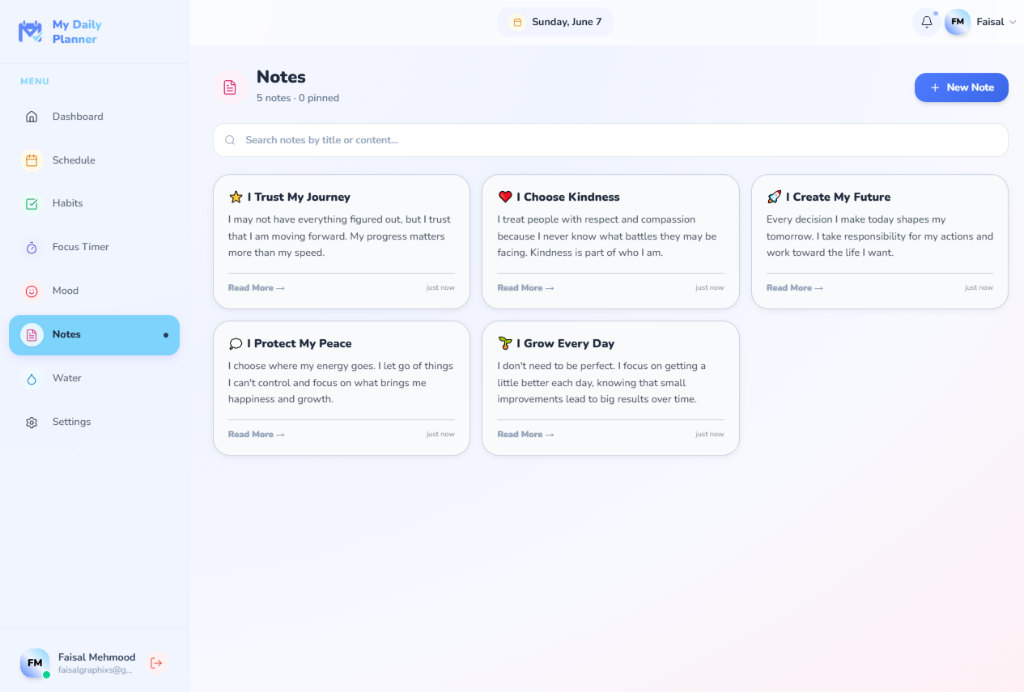
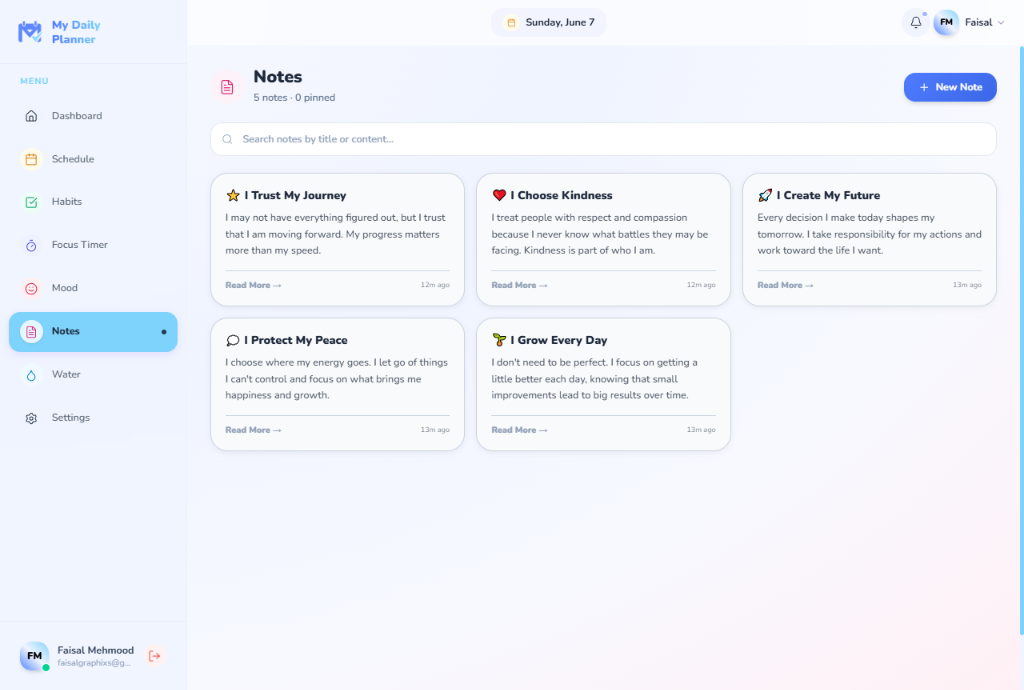
Fix bugs: Focus Timer notifications, Mood recent entries, Dashboard NaNd relative time, and Water page mobile responsiveness

diff --git a/src/pages/WaterPage.jsx b/src/pages/WaterPage.jsx
@@ -730,14 +730,14 @@ export default function WaterPage() {
                 ${darkMode ? 'bg-slate-800/70 border-slate-700/50' : 'bg-white/80 border-sky-100/40'}`}>
 
                 {/* Bar + bottle row */}
-                <div className="flex items-center gap-6 mb-6">
+                <div className="flex flex-col sm:flex-row items-center gap-6 mb-6">
                   {/* Water bottle */}
                   <div className="flex-shrink-0">
                     <WaterBottle pct={pct} darkMode={darkMode} />
                   </div>
 
                   {/* Progress + glasses grid */}
-                  <div className="flex-1 min-w-0 space-y-5">
+                  <div className="flex-1 min-w-0 space-y-5 w-full">
                     {/* Progress bar */}
                     <div>
                       <div className="flex justify-between items-center mb-2">

diff --git a/src/pages/NotificationsPage.jsx b/src/pages/NotificationsPage.jsx
@@ -143,7 +143,12 @@ export default function NotificationsPage() {
       if (rawFocus) {
         const parsed = JSON.parse(rawFocus);
         const today = todayKey();
-        const todayCompletions = parsed.filter(c => c.timestamp && c.timestamp.startsWith(today));
+        const todayCompletions = parsed.filter(c => {
+          if (!c.timestamp) return false;
+          const cDate = new Date(c.timestamp);
+          const cKey = `${cDate.getFullYear()}-${String(cDate.getMonth()+1).padStart(2,'0')}-${String(cDate.getDate()).padStart(2,'0')}`;
+          return cKey === today;
+        });
         todayCompletions.forEach((fc, fidx) => {
           list.push({
             id: `focus-${fc.id || fidx}`,

diff --git a/src/components/Navbar.jsx b/src/components/Navbar.jsx
@@ -158,7 +158,12 @@ export function NotificationBell() {
       if (rawFocus) {
         const parsed = JSON.parse(rawFocus);
         const today = todayKey();
-        const todayCompletions = parsed.filter(c => c.timestamp && c.timestamp.startsWith(today));
+        const todayCompletions = parsed.filter(c => {
+          if (!c.timestamp) return false;
+          const cDate = new Date(c.timestamp);
+          const cKey = `${cDate.getFullYear()}-${String(cDate.getMonth()+1).padStart(2,'0')}-${String(cDate.getDate()).padStart(2,'0')}`;
+          return cKey === today;
+        });
         todayCompletions.forEach((fc, fidx) => {
           list.push({
             id: `focus-${fc.id || fidx}`,

diff --git a/src/pages/Dashboard.jsx b/src/pages/Dashboard.jsx
@@ -30,7 +30,9 @@ function habitsKey() {
   return `${d.getFullYear()}-${d.getMonth()}-${d.getDate()}`;
 }
 function timeAgo(ts) {
+  if (!ts || isNaN(ts)) return 'today';
   const s = Math.floor((Date.now() - ts) / 1000);
+  if (s < 0)     return 'just now';
   if (s < 60)    return 'just now';
   if (s < 3600)  return `${Math.floor(s/60)}m ago`;
   if (s < 86400) return `${Math.floor(s/3600)}h ago`;
@@ -1266,6 +1268,7 @@ export default function Dashboard() {
         mood = {
           moodId,
           note: moodData.note || '',
+          savedAt: localStorage.getItem('last_action_mood') || (today + 'T12:00:00.000Z'),
           ...MOOD_MAP[moodId]
         };
       }

diff --git a/src/pages/MoodPage.jsx b/src/pages/MoodPage.jsx
@@ -356,7 +356,7 @@ function RecentEntries({ history, darkMode }) {
   );
 
   return (
-    <div className="flex gap-3 overflow-x-auto pb-2 snap-x scrollbar-none">
+    <div className="flex flex-nowrap lg:flex-wrap gap-3 overflow-x-auto lg:overflow-x-visible pb-2 snap-x scrollbar-none">
       {days.map(({ d, key, entry }) => {
         const mood = MOOD_MAP[entry.moodId];
         const label = d.toLocaleDateString('en-US', { weekday:'short', month:'short', day:'numeric' });
